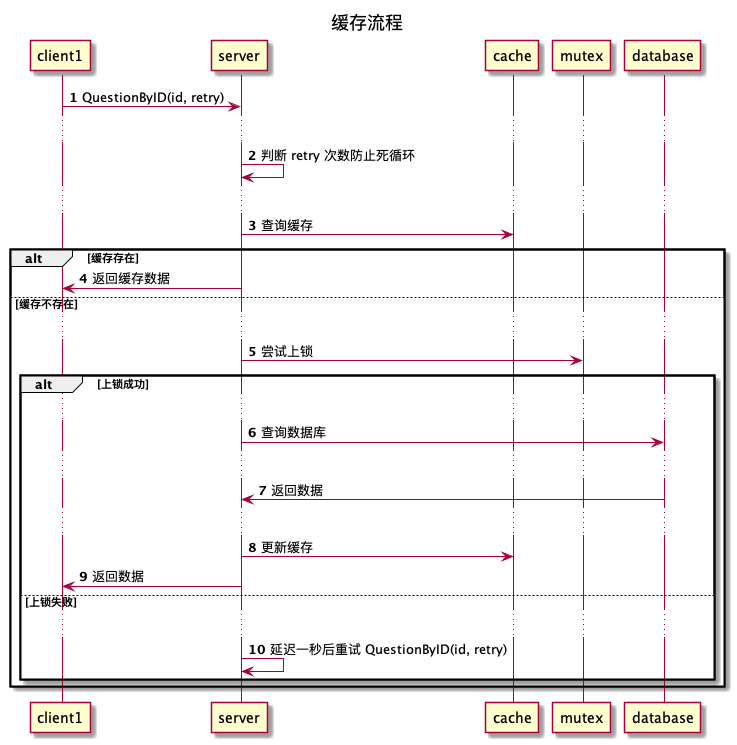
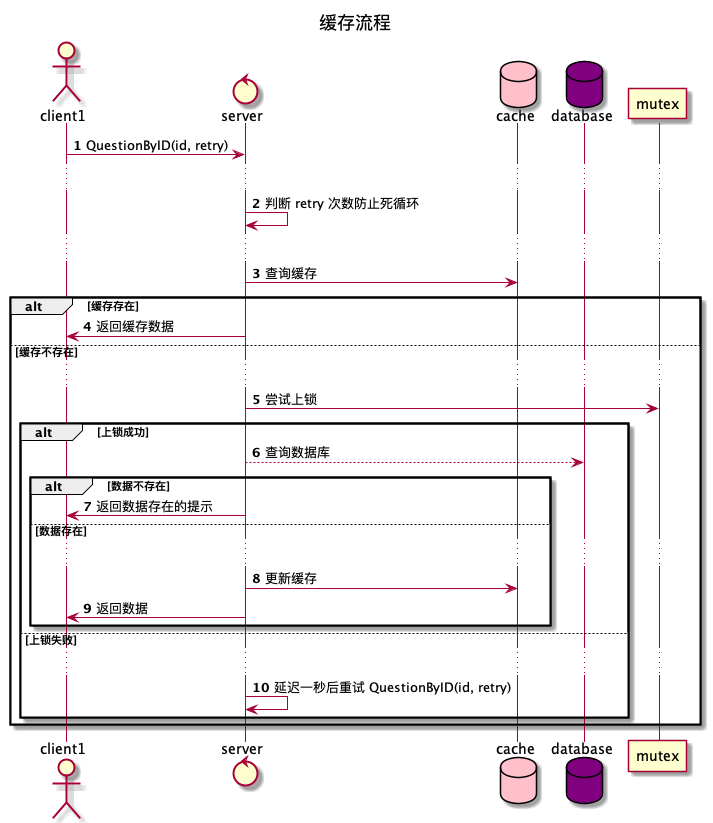
缓存穿透

diff --git a/src/cache_practice.md b/src/cache_practice.md
@@ -15,7 +15,14 @@
 
 ```javascript
 function QuestionByID(id) {
-  row = SQLQuery("SELECT title, describe FROM question WHERE id = ? LIMIT 1") return {
+  row = SQLQuery("SELECT title, describe FROM question WHERE id = ? LIMIT 1")
+  if row == null {
+    return {
+      type: "fail",
+      msg : "数据不存在"，
+    }
+  }
+  return {
     title: row.title,
     describe: row.describe,
   }
@@ -33,7 +40,7 @@ function QuestionByID(id) {
 第二个请求：查询缓存 > 缓存存在 > 响应数据
 ```
 
-![](./cache_practice/1-2.png)
+![](./cache_practice/1-1.png)
 
 
 
@@ -47,8 +54,14 @@ function QuestionByID(id) {
   if (cache == nil) {
     // 查询数据库
     row = SQLQuery("SELECT title, describe FROM question WHERE id = ? LIMIT 1")
+    if row == null {
+      return {
+        type: "fail",
+        msg : "数据不存在"，
+      }
+    }
     // 将数据库的数据同步到缓存
-    Redis("HSET", cacheKey, "title", row.title, "describe", row.describe)
+    Redis("HSET", cacheKey, "title", row.title, "describe", row.describe, "cache_expire_uinx_seconds", time.Now().Add(time.Secound*120).Unix()) row.describe)
     // 响应数据
     return {
       title: cache.title,
@@ -63,14 +76,16 @@ function QuestionByID(id) {
 }
 ```
 
+
+> redis hash 的 feild 无法设置过期时间，可以通过定时任务使用 hscan 去检测 cache_expire_uinx_seconds 来实现 field 过期时间
+
 重新发布后，数据库压力大幅度减少。但部分新问题发布后还是会出现几秒短暂的sql连接数暴增。
 
-原因是一些粉丝量很大的用户发布提问后大量用户涌入，在缓存还没来得及同步时出现大量sql查询。
+原因是一些粉丝量很大的用户发布提问后大量用户涌入，在缓存还没来得及同步时出现大量sql查询。这种情况叫**缓存击穿**
 
 为了解决这种情况，需要使用分布式互斥锁避免出现一个提问出现大量同步缓存操作。
 
 > 分布式互斥锁需要保证上锁和解锁都是原子性，在解锁时不要意外的解锁了其他线程/协程/机器上的锁和处理解锁时锁过期。本文不深入互斥锁。[互斥锁文章](https://github.com/search?q=user%3Animoc+%E4%BA%92%E6%96%A5%E9%94%81)
-
 
 
 ```
@@ -108,7 +123,15 @@ function QuestionByID(id string, retry int) {
       return QuestionByID(id, retry + 1)
     }
 
-    row = SQLQuery("SELECT title, describe FROM question WHERE id = ? LIMIT 1") Redis("HSET", cacheKey, "title", row.title, "describe", row.describe) unlockSuccess = Unlock()
+    row = SQLQuery("SELECT title, describe FROM question WHERE id = ? LIMIT 1")
+    if row == null {
+      return {
+        type: "fail",
+        msg : "数据不存在"，
+      }
+    }
+    Redis("HSET", cacheKey, "title", row.title, "describe", row.describe, "cache_expire_uinx_seconds", time.Now().Add(time.Secound*120).Unix())
+    unlockSuccess = Unlock()
     // 解锁失败
     if (unlockSuccess == false) {
       // 再次调用 QuestionByID 重试查询
@@ -126,12 +149,75 @@ function QuestionByID(id string, retry int) {
 }
 ```
 
+
 当有新提问被大量并发访问时，只有一个请求会进入查询 SQL的逻辑，其他请求会等待一秒后重试。如果第一个请求因为各种原因导致没有能成功更新缓存，还会有其他请求重新加锁并更新缓存。
 
 在一种极端情况下：有出现大量的请求，成功上锁的那一个请求在上锁后因为各种原因线程中断了，导致没有解锁。此时会出现3秒内所有 QuestionByID 都不能响应数据。但这种情况出现的几率非常小，可根据业务场景来判断是否可以忽略。
 
-至此同步缓存的代码写完了。
 
-> 还需要注意缓存穿透的问题
+发布运行一段时间后一切正常，偶尔有一天发现当粉丝量很大的用户发布提问后又理解删除提问。发布提问时候推送消息已经推送到很多用户的手机中，用户阅读消息并点击访问提问。会进入如下流程：
 
-接下来考虑当提问数据被修改时如何更新缓存。
+![](./cache_practice/1-3.png?=2)
+
+如图所示，所有的用户请求都进入了红色框线路。即使在同步缓存时使用互斥锁去减少数据库压力。在第一个上锁成功的用户没查到数据并解锁后还会有新的用户上锁>查询数据库->响应无数据。这就导致了**缓存穿透**
+
+> 数据不存在原因可能是正常删除，也可能是意外删除，也可能是恶意攻击。
+
+为了解决缓存穿透，需要在查询到不存在的数据时在缓存中标记数据不存在，以避免缓存穿透。
+
+![](./cache_practice/1-4.png)
+
+```js
+function QuestionByID(id string, retry int) {
+  // （可暂时跳过这一段 if 代码）为防止意外多次重试出现死循环，增加中断条件
+  if (retry > 2) {
+    return {
+      type: "fail",
+      message: "数据获取失败，请重试。"
+    }
+  }
+  cacheKey = "question:" + id cache = Redis("HGETALL", cacheKey, )
+
+  if (cache == nil) {
+    // 在缓存中查询是否是无效数据
+    invalid = RedisCommand("HGET", "question_invalid", id)
+    if (invalid) {
+      return {
+        type: "fail",
+        msg : "数据不存在"，
+      }
+    }
+    lockKey = "question_sync_cache:" + id lockSuccess,
+    Unlock = Lock(lockKey, {
+      ExpireSeconds: 3
+    }) if (lockSuccess == false) {
+      SleepSeconds(1)
+      return QuestionByID(id, retry + 1)
+    }
+
+    row = SQLQuery("SELECT title, describe FROM question WHERE id = ? LIMIT 1")
+    if row == null {
+      // 标记无效数据
+      invalid = RedisCommand("HSET", "question_invalid", id, time.Now().Add(time.Secound*120).Unix())
+      // 值设为无效标记超时时间，便于 HSCAN 清除数据
+      return {
+        type: "fail",
+        msg : "数据不存在"，
+      }
+    }
+    Redis("HSET", cacheKey, "title", row.title, "describe", row.describe, "cache_expire_uinx_seconds", time.Now().Add(time.Secound*120).Unix())
+    unlockSuccess = Unlock()
+    if (unlockSuccess == false) {
+      return QuestionByID(id, retry + 1)
+    }
+    return {
+      title: cache.title,
+      describe: cache.describe,
+    }
+  }
+  return {
+    title: cache.title,
+    describe: cache.describe,
+  }
+}
+```
